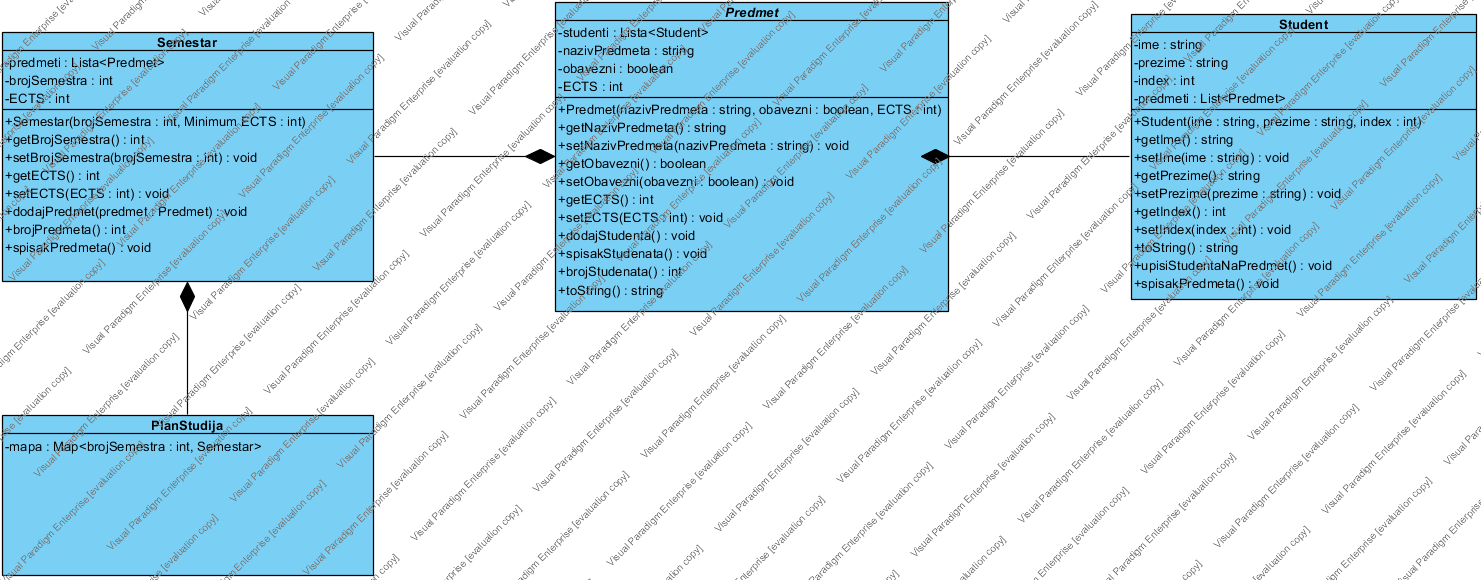
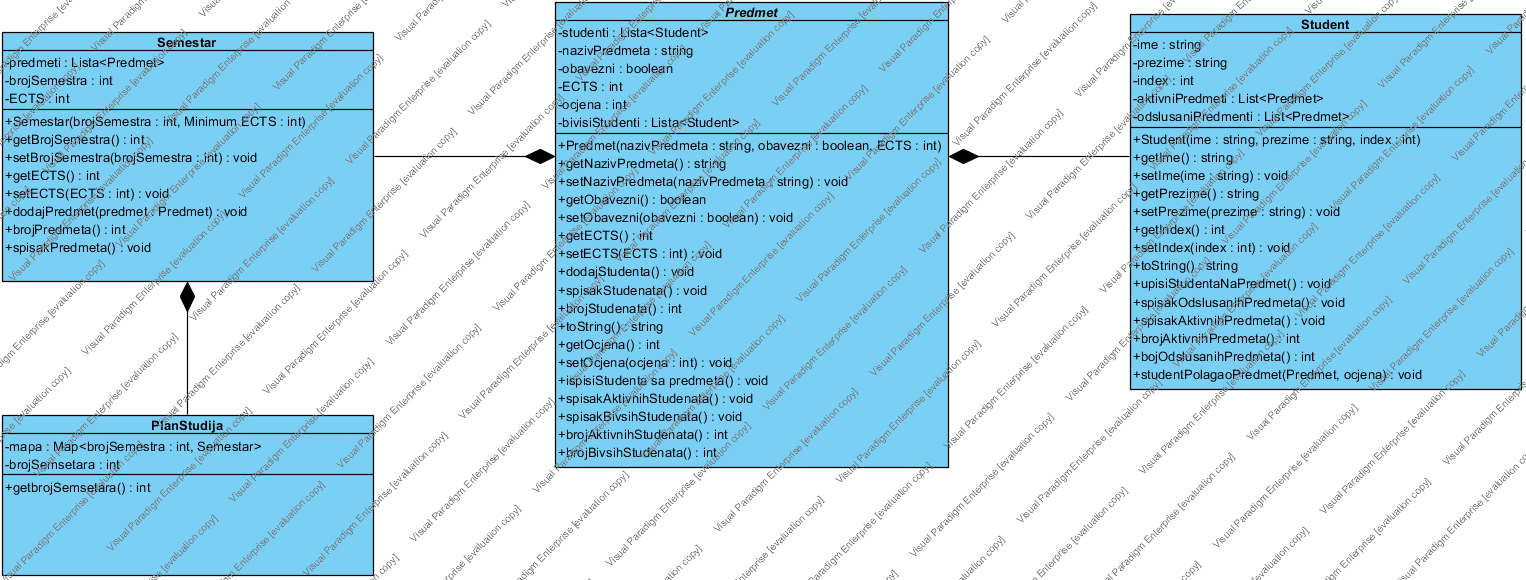
Dodao nove atribute u klase, i popravio dijagram. Kreirao testove.

diff --git a/src/ba/unsa/etf/rpr/zutorijal4/Predmet.java b/src/ba/unsa/etf/rpr/zutorijal4/Predmet.java
@@ -5,10 +5,12 @@ import java.util.List;
 
 public class Predmet {
 
-    List<Student> studenti = new ArrayList<Student>();
+    List<Student> bivsiStudenti = new ArrayList<Student>();
+    List<Student> aktivniStudenti = new ArrayList<Student>();
     String nazivPredmeta;
     boolean obavezni;
     int ECTS;
+    int ocjena = 5;
 
 
     public Predmet(String naziv, boolean obavezni, int ects){
@@ -17,7 +19,13 @@ public class Predmet {
         this.ECTS = ects;
     }
 
+    public int getOcjena() {
+        return ocjena;
+    }
 
+    public void setOcjena(int ocjena) {
+        this.ocjena = ocjena;
+    }
 
     public String getNazivPredmeta() {
         return nazivPredmeta;
@@ -44,20 +52,43 @@ public class Predmet {
         this.ECTS = ECTS;
     }
 
-    public void dodajStudenta(Student s){
-        studenti.add(s);
+    public void dodajStudentaNaPredmet(Student s){
+        aktivniStudenti.add(s);
     }
 
-    public int brojStudenata(){
-        return studenti.size();
+    public void ispisiStudentaSaPredmeta(Student s){
+
+        for(int i=0; i<aktivniStudenti.size(); i++) {
+            if(aktivniStudenti.get(i) == s){
+                bivsiStudenti.add(aktivniStudenti.get(i));
+                aktivniStudenti.remove(aktivniStudenti.get(i));
+            }
+        }
     }
 
-    public void spisakStudenata(){
+    public int brojAktinihStudenata(){
+        return aktivniStudenti.size();
+    }
 
-        System.out.println("Studenti na predmetu " + nazivPredmeta + " su: ");
-        for(int i=0; i<studenti.size(); i++){
+    public void spisAkaktivnihStudenata(){
 
-            System.out.println( i+1 + ". " + (Student) studenti.get(i));
+        System.out.println("Aktivni studenti na predmetu " + nazivPredmeta + " su: ");
+        for(int i=0; i<aktivniStudenti.size(); i++){
+
+            System.out.println( i+1 + ". " + (Student) aktivniStudenti.get(i));
+        }
+    }
+
+    public int brojBivsihStudenata(){
+        return bivsiStudenti.size();
+    }
+
+    public void spisakBivsihStudenata(){
+
+        System.out.println("Bivsi studenti na predmetu " + nazivPredmeta + " su: ");
+        for(int i=0; i<bivsiStudenti.size(); i++){
+
+            System.out.println( i+1 + ". " + (Student) bivsiStudenti.get(i) + ", Ocjena: " + ocjena);
         }
     }
 

diff --git a/src/ba/unsa/etf/rpr/zutorijal4/Student.java b/src/ba/unsa/etf/rpr/zutorijal4/Student.java
@@ -5,7 +5,8 @@ import java.util.ArrayList;
 
 public class Student {
 
-    List<Predmet> predmeti = new ArrayList<Predmet>();
+    List<Predmet> odslusaniPredmeti = new ArrayList<Predmet>();
+    List<Predmet> aktivniPredmeti = new ArrayList<Predmet>();
     String ime;
     String prezime;
     int index;
@@ -17,7 +18,7 @@ public class Student {
     }
 
     public void upisiStudentaNaPredmet(Predmet p){
-        predmeti.add(p);
+        aktivniPredmeti.add(p);
     }
 
     public String getIme() {
@@ -44,11 +45,33 @@ public class Student {
         this.index = index;
     }
 
-    public void spisakPredmeta(){
+    public void spisAkaktivnihPredmeta(){
 
-        System.out.println("Student sluša slijedeće predmete: \n");
-        for(int i=0; i<predmeti.size(); i++){
-            System.out.println(" -  " + predmeti.get(i));
+        System.out.println("Student " + prezime + " " + ime + " sluša slijedeće predmete: ");
+        for(int i=0; i<aktivniPredmeti.size(); i++){
+            System.out.println(" -  " + aktivniPredmeti.get(i));
+        }
+    }
+
+    int brojAktinihPredmeta() { return  aktivniPredmeti.size();}
+
+    public void spisOdslusanihPredmeta(){
+
+        System.out.println("Student " + prezime + " " + ime + " je odslušao slijedeće predmete: ");
+        for(int i=0; i<odslusaniPredmeti.size(); i++){
+            System.out.println(" -  " + odslusaniPredmeti.get(i) + ", Ocjena: " + odslusaniPredmeti.get(i).getOcjena());
+        }
+    }
+
+    int brojOdslusanihPredmeta() { return  odslusaniPredmeti.size();}
+
+    void studentPolagaoPredmet(Predmet p, int ocjena){
+        for(int i=0; i<aktivniPredmeti.size(); i++){
+            if( p == aktivniPredmeti.get(i) && ocjena > 5){
+                aktivniPredmeti.get(i).setOcjena(ocjena);
+                odslusaniPredmeti.add(aktivniPredmeti.get(i));
+                aktivniPredmeti.remove(aktivniPredmeti.get(i));
+            }
         }
     }
 

diff --git a/src/ba/unsa/etf/rpr/zutorijal4/Main.java b/src/ba/unsa/etf/rpr/zutorijal4/Main.java
@@ -2,8 +2,23 @@ package ba.unsa.etf.rpr.zutorijal4;
 
 public class Main {
 
-	public void meni(){
-		System.out.println("Dobro došli u glavni meni! \n");
+	public void meniZaPredmete(){
+
+		System.out.println("Dobro došli u meni Predmeta! \n");
+		System.out.println("0 - za kraj \n" +
+				"1 - za kreiranje novog predmeta" +
+				"2 - za dodavanje studenta na predmet\n" +
+				"3 - za \n"
+		);
+	}
+
+	public void meniZaPlanStudija(){
+		System.out.println("Dobro došli u meni Plan studija! \n");
+		System.out.println("0 - za kraj \n" +
+				"1 - za kreiranje novog plana studija" +
+				"2 - za dodavanje semestara u plan studija \n" +
+				"3 - za \n"
+		);
 	}
 
 	public void meniZaStudente(){
@@ -18,11 +33,34 @@ public class Main {
 
     public static void main(String[] args) {
 
-	        Student s = new Student("Ferid", "Hadzic", 17685);
-	        Predmet p = new Predmet("Rpr", true, 5);
-	        p.dodajStudenta(s);
-	        p.spisakStudenata();
-	        System.out.println(p.brojStudenata());
+	        Student s1 = new Student("Ferid", "Hadzic", 17685);
+			Student s2 = new Student("Mujo", "Mujic", 17684);
+			Student s3 = new Student("Fata", "Fatic", 17683);
+	        Predmet p1 = new Predmet("Rpr", true, 7);
+			Predmet p2 = new Predmet("Asp", true, 6);
+			Predmet p3 = new Predmet("Obp", true, 5);
+
+	        s1.upisiStudentaNaPredmet(p1);
+			s1.upisiStudentaNaPredmet(p2);
+			s1.upisiStudentaNaPredmet(p3);
+
+			s1.studentPolagaoPredmet(p1,10);
+			p1.ispisiStudentaSaPredmeta(s1);
+			s1.studentPolagaoPredmet(p2, 8);
+			p2.ispisiStudentaSaPredmeta(s1);
+
+			Semestar prvi = new Semestar(1, 30);
+			prvi.dodajPredmet(p1);
+			prvi.dodajPredmet(p2);
+			prvi.dodajPredmet(p3);
+
+			PlanStudija bechelr = new PlanStudija(6);
+			bechelr.dodajSemestar(1, prvi);
+
+			prvi.spisakPredmeta();
+
+			s1.spisAkaktivnihPredmeta();
+			s1.spisOdslusanihPredmeta();
 
     }
 }

diff --git a/test/ba/unsa/etf/rpr/zutorijal4/StudentTest.java b/test/ba/unsa/etf/rpr/zutorijal4/StudentTest.java
@@ -1,10 +1,59 @@
 package ba.unsa.etf.rpr.zutorijal4;
 
 
+import org.junit.jupiter.api.Test;
+
+import static org.junit.jupiter.api.Assertions.*;
+
 public class StudentTest {
 
     @Test
-    public void toString() {
+    void getIme() {
+        Student s = new Student("Ferid", "Hadzic", 17685);
+        assertEquals("Ferid", s.getIme());
+    }
 
+    @Test
+    void getPrezime() {
+        Student s = new Student("Ferid", "Hadzic", 17685);
+        assertEquals("Hadzic", s.getPrezime());
+    }
+
+    @Test
+    void getIndex() {
+        Student s = new Student("Ferid", "Hadzic", 17685);
+        assertEquals(17685, s.getIndex());
+    }
+
+
+    @Test
+    public void brojAktivnihPredmeta() {
+        Student s = new Student("Ferid", "Hadzic", 17685);
+        Predmet p1 = new Predmet("Rpr", true, 7);
+        Predmet p2 = new Predmet("Asp", true, 6);
+        Predmet p3 = new Predmet("Obp", true, 5);
+        s.upisiStudentaNaPredmet(p1);
+        s.upisiStudentaNaPredmet(p2);
+        s.upisiStudentaNaPredmet(p3);
+
+        s.studentPolagaoPredmet(p1, 10);
+        s.studentPolagaoPredmet(p2, 5);
+
+        assertEquals(2, s.brojAktinihPredmeta());
+    }
+
+
+    @Test
+    void brojOdslusanihPredmeta() {
+        Student s = new Student("Ferid", "Hadzic", 17685);
+        Predmet p1 = new Predmet("Rpr", true, 7);
+        Predmet p2 = new Predmet("Asp", true, 6);
+        Predmet p3 = new Predmet("Obp", true, 5);
+        s.upisiStudentaNaPredmet(p1);
+        s.upisiStudentaNaPredmet(p2);
+        s.upisiStudentaNaPredmet(p3);
+        s.studentPolagaoPredmet(p1, 10);
+        s.studentPolagaoPredmet(p2, 8);
+        assertEquals(2, s.brojOdslusanihPredmeta());
     }
 }

diff --git a/test/ba/unsa/etf/rpr/zutorijal4/PredmetTest.java b/test/ba/unsa/etf/rpr/zutorijal4/PredmetTest.java
@@ -1,0 +1,41 @@
+package ba.unsa.etf.rpr.zutorijal4;
+
+import org.junit.jupiter.api.Test;
+
+import static org.junit.jupiter.api.Assertions.*;
+
+class PredmetTest {
+
+    @Test
+    void brojAktivnihStudenata() {
+        Student s1 = new Student("Ferid", "Hadzic", 17685);
+        Student s2 = new Student("Mujo", "Mujic", 17684);
+        Student s3 = new Student("Fata", "Fatic", 17683);
+        Predmet p1 = new Predmet("Rpr", true, 7);
+        p1.dodajStudentaNaPredmet(s1);
+        p1.dodajStudentaNaPredmet(s2);
+        p1.dodajStudentaNaPredmet(s3);
+
+        s1.studentPolagaoPredmet(p1, 10);
+        p1.ispisiStudentaSaPredmeta(s1);
+
+        assertEquals(2, p1.brojAktinihStudenata());
+
+    }
+
+    @Test
+    void brojBivsihStudenata() {
+        Student s1 = new Student("Ferid", "Hadzic", 17685);
+        Student s2 = new Student("Mujo", "Mujic", 17684);
+        Student s3 = new Student("Fata", "Fatic", 17683);
+        Predmet p1 = new Predmet("Rpr", true, 7);
+        p1.dodajStudentaNaPredmet(s1);
+        p1.dodajStudentaNaPredmet(s2);
+        p1.dodajStudentaNaPredmet(s3);
+
+        s1.studentPolagaoPredmet(p1, 10);
+        p1.ispisiStudentaSaPredmeta(s1);
+
+        assertEquals(1, p1.brojBivsihStudenata());
+    }
+}

diff --git a/src/ba/unsa/etf/rpr/zutorijal4/PlanStudija.java b/src/ba/unsa/etf/rpr/zutorijal4/PlanStudija.java
@@ -1,17 +1,27 @@
 package ba.unsa.etf.rpr.zutorijal4;
 
-import java.util.Map;
+
 import java.util.HashMap;
-import java.util.Set;
+import java.util.Map;
+
 
 public class PlanStudija {
 
-    Map< Integer, Set<Semestar> > mapa = new HashMap<>();
+    int brojSemestara;
+    Map< Integer, Semestar > mapa = new HashMap<>();
 
-    public PlanStudija(Integer brojSemestra, Set<Semestar> semestar){
+    public PlanStudija(int brojSemestara){
+        this.brojSemestara = brojSemestara;
+    }
+
+    public void dodajSemestar(Integer brojSemestra, Semestar semestar){
+        if(brojSemestra > brojSemestara) {
+     //       throw new IllegalAccessException("Nelegalan broj semestra!");
+        }
         mapa.put(brojSemestra, semestar);
     }
 
 
+    public int getBrojSemestara(){ return  brojSemestara; }
 
 }

diff --git a/test/ba/unsa/etf/rpr/zutorijal4/SemestarTest.java b/test/ba/unsa/etf/rpr/zutorijal4/SemestarTest.java
@@ -1,0 +1,20 @@
+package ba.unsa.etf.rpr.zutorijal4;
+
+import org.junit.jupiter.api.Test;
+
+import static org.junit.jupiter.api.Assertions.*;
+
+class SemestarTest {
+
+    @Test
+    void brojPredmeta() {
+        Semestar prvi = new Semestar(1, 30);
+        Predmet p1 = new Predmet("Rpr", true, 7);
+        Predmet p2 = new Predmet("Asp", true, 6);
+        Predmet p3 = new Predmet("Obp", true, 5);
+        prvi.dodajPredmet(p1);
+        prvi.dodajPredmet(p2);
+        prvi.dodajPredmet(p3);
+        assertEquals(3, prvi.brojPredmeta());
+    }
+}

diff --git a/test/ba/unsa/etf/rpr/zutorijal4/PlanStudijaTest.java b/test/ba/unsa/etf/rpr/zutorijal4/PlanStudijaTest.java
@@ -1,0 +1,15 @@
+package ba.unsa.etf.rpr.zutorijal4;
+
+import org.junit.jupiter.api.Test;
+
+import static org.junit.jupiter.api.Assertions.*;
+
+class PlanStudijaTest {
+
+    @Test
+    void getBrojSemestara() {
+        PlanStudija bechelr = new PlanStudija(6);
+        assertEquals(6, bechelr.getBrojSemestara());
+    }
+
+}

diff --git a/src/ba/unsa/etf/rpr/zutorijal4/Semestar.java b/src/ba/unsa/etf/rpr/zutorijal4/Semestar.java
@@ -31,11 +31,5 @@ public class Semestar {
             System.out.println(i+1 + ". " + (Predmet)predmeti.get(i));
         }
     }
-/*
-    @Override
-    public String toString() {
-        return ;
-    }
-    */
 
 }
